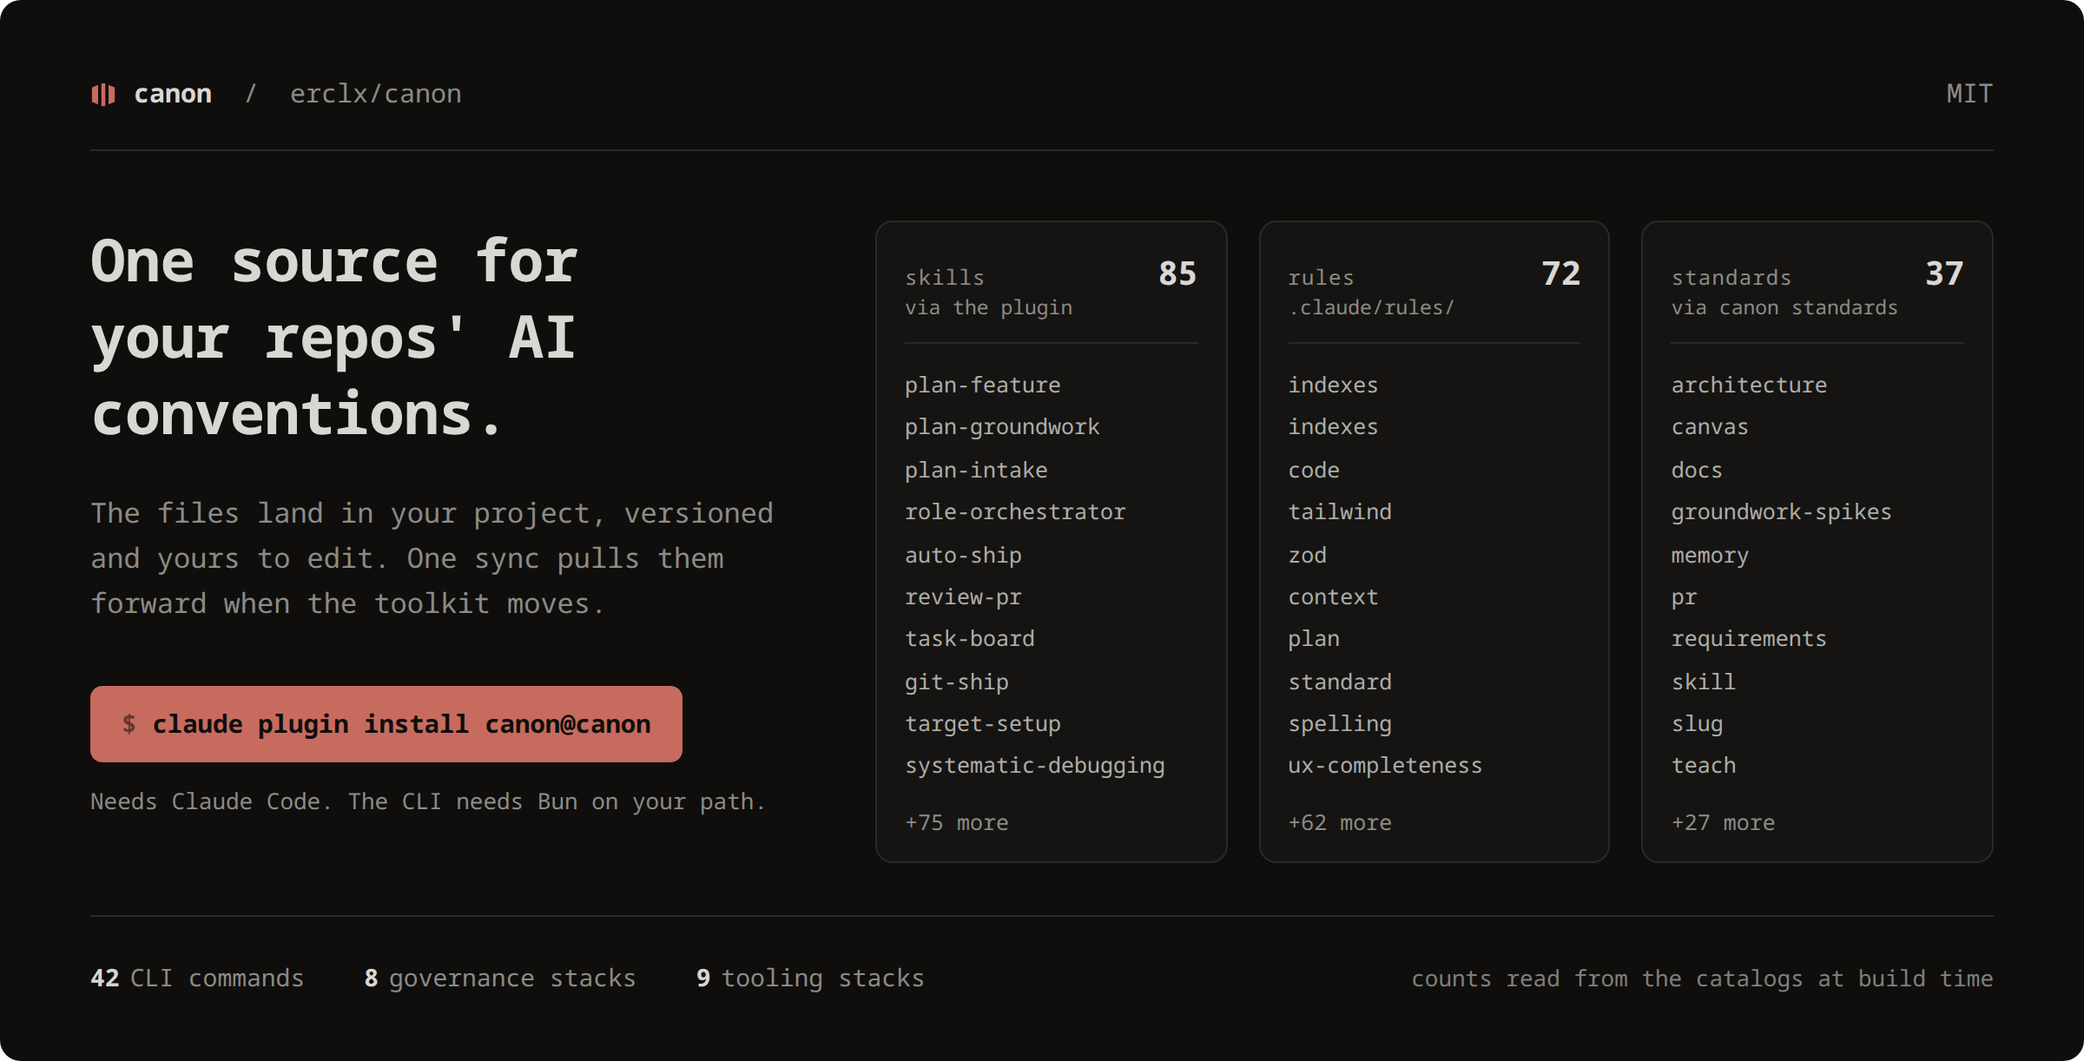
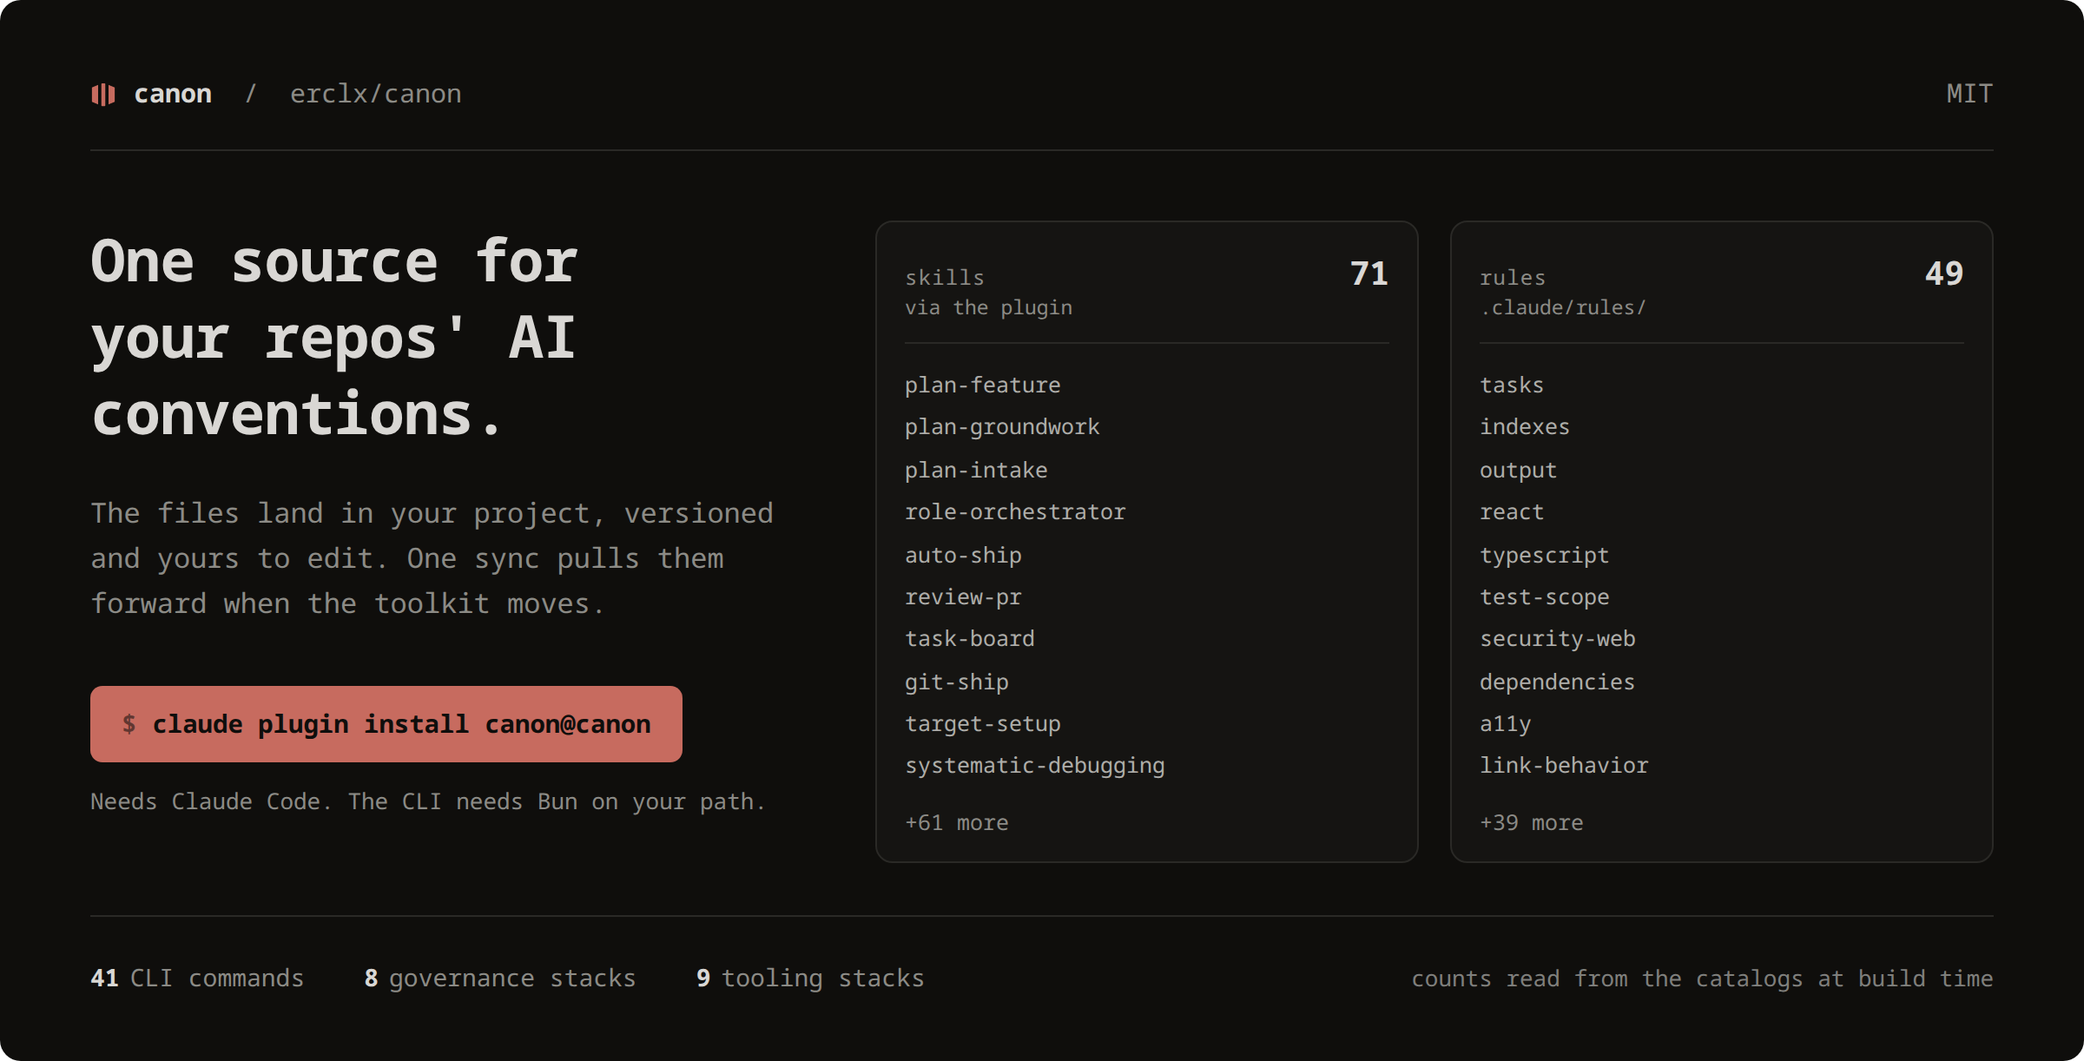
feat(web): drop the standards catalog from the landing page (#2336)
## Summary

Drop the standards catalog from the landing page and the hero frame to stop both reading `src/standards/` before the verb removal deletes it.

## Key changes

- Cut `fold.never` in `web/src/content/copy.ts` to the skills row and retitle it "and one it never copies".
- Drop `standards` from `turns.usedCommands`, `close.lead`, and the footer links in `web/src/content/copy.ts`.
- Remove the standards row from `web/src/components/sections/fold.astro`.
- Drop `standards` from `SessionReads` in `web/src/lib/session.ts` and `CatalogCounts` in `web/src/lib/counts.ts`.
- Remove `StandardRow`, `standardRows`, and the `STANDARD_*` values from `src/capture/frame-values.ts` and its test.
- Drop the `listStandardEntries` read from `scripts/core/regen-hero.ts`.
- Remove the standards column from `assets/captures/hero.html.tmpl` and set the grid to two columns.
- Regenerate `assets/captures/hero.html`, `assets/frames/hero.png`, and `assets/frames/hero.stamp`.
- Fold the change into `canon/context/scripts/core.md` and `canon/context/web/overview.md`.
- Set `.never ul` in `web/src/components/sections/fold.astro` to one column, so the lone row spans the width.

## Technical context

- The verb removal deletes `src/standards/`, so nothing on the page or the frame may read it first.

diff --git a/src/capture/frame-values.ts b/src/capture/frame-values.ts
@@ -31,15 +31,9 @@ const GLOB_WIDTH = 44
 /** A refusal the script prints as `regen-hero: <message>` and exits 1 on. */
 export class FrameError extends Error {}
 
-export interface StandardRow {
-  readonly name: string
-  readonly appliesTo?: readonly string[]
-}
-
 export interface FrameCatalogs {
   readonly skills: readonly string[]
   readonly gov: GovCatalog
-  readonly standards: readonly StandardRow[]
   readonly toolingStacks: readonly StackSummary[]
   readonly commandCount: number
   readonly tokenCss: string
@@ -63,7 +57,7 @@ const escape = (value: string): string =>
 /**
  * Even spacing across the sorted catalog rather than its first N, so a column
  * whose names share a prefix does not read as a narrower catalog than the one
- * that ships. Rules and standards sample. Skills do not, because the even step
+ * that ships. Rules sample. Skills do not, because the even step
  * lands on the entries closest to commodity and on none of the workflow the
  * toolkit exists to carry.
  */
@@ -186,7 +180,7 @@ function faviconUri(markSvg: string, tokenCss: string): string {
  * rather than shipping a frame claiming the domain has nothing in it.
  */
 export function buildFrameValues(catalogs: FrameCatalogs): FrameValues {
-  const { gov, toolingStacks, standards, skills } = catalogs
+  const { gov, toolingStacks, skills } = catalogs
   const markSvg = catalogs.markSvg.trim()
   if (!markSvg) {
     throw new FrameError(
@@ -207,12 +201,10 @@ export function buildFrameValues(catalogs: FrameCatalogs): FrameValues {
   const stacked = new Set(gov.stacks.flatMap((stack) => stack.rules))
   const deliveredEntries = gov.rules.filter((entry) => stacked.has(entry.name))
   const deliveredRules = deliveredEntries.map((entry) => slug(entry.name))
-  const standardNames = standards.map((entry) => entry.name)
 
   for (const [label, list] of [
     ['skills', skills],
     ['rules', rules],
-    ['standards', standardNames],
     ['tooling stacks', toolingStacks],
     ['gov stacks', gov.stacks],
     ['stack-delivered rules', deliveredRules],
@@ -251,23 +243,6 @@ export function buildFrameValues(catalogs: FrameCatalogs): FrameValues {
     })
     .join('\n')
 
-  // A standard either governs an artifact by path or is opened by name when a
-  // session decides it needs it. Naming the second is the contrast, since
-  // nothing else tells a reader the corpus installs into no project.
-  const standardRows = sample(standards)
-    .map((entry) => {
-      const applies = entry.appliesTo ?? []
-      const governs =
-        applies.length > 0
-          ? clip(applies.join(' '), GLOB_WIDTH)
-          : 'read by name'
-      return frameRow(
-        `<span class="name">${escape(pad(entry.name, 18))}</span>` +
-          `<span class="muted">${escape(governs)}</span>`,
-      )
-    })
-    .join('\n')
-
   // A tooling stack is counted rather than listed, because what it lays down is
   // dev dependencies, run scripts, and ignore groups rather than named entries.
   // The inheritance is the part worth showing, since it is why a stack carrying
@@ -286,7 +261,6 @@ export function buildFrameValues(catalogs: FrameCatalogs): FrameValues {
   for (const [label, rows] of [
     ['governance stack rows', govStackRows],
     ['governance rule rows', govRuleRows],
-    ['standard rows', standardRows],
     ['tooling stack rows', toolingStackRows],
   ] as const) {
     if (rows === '') {
@@ -300,11 +274,9 @@ export function buildFrameValues(catalogs: FrameCatalogs): FrameValues {
     TOKENS: tokenCss,
     GOV_STACK_ROWS: govStackRows,
     GOV_RULE_ROWS: govRuleRows,
-    STANDARD_ROWS: standardRows,
     TOOLING_STACK_ROWS: toolingStackRows,
     SKILL_COUNT: String(skills.length),
     RULE_COUNT: String(rules.length),
-    STANDARD_COUNT: String(standardNames.length),
     GOV_STACK_COUNT: String(gov.stacks.length),
     TOOLING_STACK_COUNT: String(toolingStacks.length),
     COMMAND_COUNT: String(catalogs.commandCount),
@@ -312,10 +284,8 @@ export function buildFrameValues(catalogs: FrameCatalogs): FrameValues {
     FAVICON: faviconUri(markSvg, tokenCss),
     SKILL_ENTRIES: markup(featured(skills, FEATURED_SKILLS)),
     RULE_ENTRIES: markup(sample(deliveredRules)),
-    STANDARD_ENTRIES: markup(sample(standardNames)),
     SKILL_MORE: remaining(skills),
     RULE_MORE: remaining(rules),
-    STANDARD_MORE: remaining(standardNames),
   }
 
   const light = lightTokens(tokenCss)

diff --git a/assets/captures/hero.html b/assets/captures/hero.html
@@ -2,8 +2,8 @@
 <!--
   Generated by scripts/core/regen-hero.ts from assets/captures/hero.html.tmpl. Do not
   edit this file. Every count below is read from the CLI catalogs at build time
-  and the Hero stage fails when the frame falls behind the tree. The rule and
-  standard names are sampled from those catalogs too. The skill names are the
+  and the Hero stage fails when the frame falls behind the tree. The rule
+  names are sampled from those catalogs too. The skill names are the
   one hand-kept list, and the generator fails on a name that has left the
   catalog rather than dropping it from the column.
 
@@ -175,7 +175,7 @@
       .cols {
         flex: 1;
         display: grid;
-        grid-template-columns: repeat(3, 1fr);
+        grid-template-columns: repeat(2, 1fr);
         align-items: start;
         gap: 18px;
       }
@@ -283,7 +283,7 @@
         <div class="cols">
           <div class="col">
             <div class="col-head">
-              <span class="col-name">skills</span><span class="col-count">85</span>
+              <span class="col-name">skills</span><span class="col-count">71</span>
             </div>
             <div class="col-dest">via the plugin</div>
             <div class="entry">plan-feature</div>
@@ -296,49 +296,31 @@
             <div class="entry">git-ship</div>
             <div class="entry">target-setup</div>
             <div class="entry">systematic-debugging</div>
-            <div class="more">+75 more</div>
+            <div class="more">+61 more</div>
           </div>
 
           <div class="col">
             <div class="col-head">
-              <span class="col-name">rules</span><span class="col-count">72</span>
+              <span class="col-name">rules</span><span class="col-count">49</span>
             </div>
             <div class="col-dest">.claude/rules/</div>
+            <div class="entry">tasks</div>
             <div class="entry">indexes</div>
-            <div class="entry">indexes</div>
-            <div class="entry">code</div>
-            <div class="entry">tailwind</div>
-            <div class="entry">zod</div>
-            <div class="entry">context</div>
-            <div class="entry">plan</div>
-            <div class="entry">standard</div>
-            <div class="entry">spelling</div>
-            <div class="entry">ux-completeness</div>
-            <div class="more">+62 more</div>
-          </div>
-
-          <div class="col">
-            <div class="col-head">
-              <span class="col-name">standards</span><span class="col-count">37</span>
-            </div>
-            <div class="col-dest">via canon standards</div>
-            <div class="entry">architecture</div>
-            <div class="entry">canvas</div>
-            <div class="entry">docs</div>
-            <div class="entry">groundwork-spikes</div>
-            <div class="entry">memory</div>
-            <div class="entry">pr</div>
-            <div class="entry">requirements</div>
-            <div class="entry">skill</div>
-            <div class="entry">slug</div>
-            <div class="entry">teach</div>
-            <div class="more">+27 more</div>
+            <div class="entry">output</div>
+            <div class="entry">react</div>
+            <div class="entry">typescript</div>
+            <div class="entry">test-scope</div>
+            <div class="entry">security-web</div>
+            <div class="entry">dependencies</div>
+            <div class="entry">a11y</div>
+            <div class="entry">link-behavior</div>
+            <div class="more">+39 more</div>
           </div>
         </div>
       </div>
 
       <div class="stats">
-        <span><b>42</b>CLI commands</span>
+        <span><b>41</b>CLI commands</span>
         <span><b>8</b>governance stacks</span>
         <span><b>9</b>tooling stacks</span>
         <span class="note">counts read from the catalogs at build time</span>

diff --git a/web/src/content/copy.ts b/web/src/content/copy.ts
@@ -96,17 +96,13 @@ export const fold = {
       detail: '.claude/rules/canon/, from the stack you name',
     },
   },
-  // README.md: canon-allow-readme-paraphrase: "some are never copied at all" "read by name with"
+  // README.md: canon-allow-readme-paraphrase: "some are never copied at all"
   never: {
-    title: 'and two it never copies',
+    title: 'and one it never copies',
     skills: {
       name: 'agent skills',
       detail:
         'loaded live from the plugin, so a fix reaches every project at once',
-    },
-    standards: {
-      name: 'standards',
-      detail: 'read by name with canon standards, never a file to drift',
     },
   },
 }
@@ -443,7 +439,6 @@ export const field = {
   }),
   usedCommands: [
     'gov',
-    'standards',
     'tooling',
     'claude',
     'tasks',
@@ -468,7 +463,7 @@ export const field = {
 export const close = {
   head: 'None of that was configured for that session',
   // README.md: canon-allow-readme-paraphrase: "copied into your project and become yours to edit" "some are never copied at all"
-  lead: 'The rules and the tooling are copied into your project and become yours to edit. The skills and the standards are never copied at all, so a fix reaches every project at once and neither can drift.',
+  lead: 'The rules and the tooling are copied into your project and become yours to edit. The skills are never copied at all, so a fix reaches every project at once and cannot drift.',
   primary: { label: 'Install canon', href: `${REPO}#install` },
   secondary: { label: 'Read the source', href: REPO },
 }
@@ -482,7 +477,6 @@ export const footer = {
       links: [
         { label: 'Docs', href: `${REPO}/tree/main/docs` },
         { label: 'Agent commands', href: `${REPO}/tree/main/docs/agents` },
-        { label: 'Standards', href: `${REPO}/tree/main/standards` },
         { label: 'Wiki', href: `${REPO}/tree/main/wiki` },
       ],
     },

diff --git a/src/capture/frame-values.test.ts b/src/capture/frame-values.test.ts
@@ -34,7 +34,6 @@ const makeCatalogs = (
     ],
     unreferenced: [],
   },
-  standards: [{ name: 'plan', appliesTo: ['.canon/plans/*.md'] }],
   toolingStacks: [
     { name: 'ts', extends: null, devDeps: 1, scripts: 2, gitignoreGroups: 0 },
   ],
@@ -84,8 +83,8 @@ describe('clip', () => {
 
 describe('buildFrameValues', () => {
   it('should refuse an empty catalog', () => {
-    expect(() => buildFrameValues(makeCatalogs({ standards: [] }))).toThrow(
-      'the standards catalog is empty',
+    expect(() => buildFrameValues(makeCatalogs({ skills: [] }))).toThrow(
+      'the skills catalog is empty',
     )
   })
 
@@ -93,15 +92,6 @@ describe('buildFrameValues', () => {
     expect(() => buildFrameValues(makeCatalogs({ commandCount: 0 }))).toThrow(
       FrameError,
     )
-  })
-
-  it('should fall back to read by name when a standard has no scope', () => {
-    const { values } = buildFrameValues(
-      makeCatalogs({ standards: [{ name: 'plan' }] }),
-    )
-
-    expect(values.STANDARD_ROWS).toContain('read by name')
-    expect(values.STANDARD_ROWS).not.toContain('undefined')
   })
 
   it('should point the light frame at the light roles', () => {

diff --git a/web/src/lib/session.ts b/web/src/lib/session.ts
@@ -3,7 +3,6 @@ import { basename, join } from 'node:path'
 
 import { merge } from '../content/copy'
 import { readCanonJson, readCanonText, repoRoot } from './canon-cli'
-import { readCatalogCounts } from './counts'
 import {
   commandNamesFromHelp,
   firstSentence,
@@ -53,7 +52,6 @@ interface Skill {
 export interface SessionReads {
   readonly skills: readonly Skill[]
   readonly skillGroups: readonly SkillGroup[]
-  readonly standards: number
   readonly commands: readonly string[]
   readonly toolingFiles: number
   readonly seedFiles: number
@@ -104,7 +102,6 @@ export function readSession(): SessionReads {
   if (cached) return cached
   const root = repoRoot()
 
-  const counts = readCatalogCounts()
   const gov = readCanonJson<GovList>(['gov', 'list'])
   const { skills, families } = readCanonJson<{
     skills: Skill[]
@@ -125,7 +122,6 @@ export function readSession(): SessionReads {
       skills,
       families,
     ),
-    standards: counts.standards,
     commands: commandNamesFromHelp(readCanonText(['--help'])),
     toolingFiles: census.files,
     seedFiles: seeds.length,

diff --git a/scripts/core/regen-hero.ts b/scripts/core/regen-hero.ts
@@ -50,7 +50,6 @@ import { listSkills } from '../../src/claude/skills-list'
 import { countCommands } from '../../src/counts/catalogs'
 import { buildDesignCss } from '../../src/design/css'
 import { buildGovCatalog } from '../../src/gov/list'
-import { listStandardEntries } from '../../src/standards/list'
 import { buildStackSummaries } from '../../src/tooling/list'
 
 const root = new URL('../..', import.meta.url).pathname
@@ -87,11 +86,6 @@ function run(): void {
   const { values, frames } = buildFrameValues({
     skills: listSkills(root).map((entry) => entry.name),
     gov: buildGovCatalog(root),
-    // The toolkit root only: a project-local standard would put a row in the
-    // hero the toolkit does not ship.
-    standards: listStandardEntries(root).filter((entry) =>
-      entry.source.startsWith('standards/'),
-    ),
     toolingStacks: buildStackSummaries(root),
     commandCount: countCommands(root) ?? 0,
     tokenCss,

diff --git a/web/src/lib/canon-cli.ts b/web/src/lib/canon-cli.ts
@@ -25,9 +25,8 @@ export function readCanonText(args: readonly string[]): string {
   const result = spawnSync('bun', [join(root, 'src', 'cli.ts'), ...args], {
     encoding: 'utf8',
     cwd: root,
-    // The standards catalog carries every standard's full body, which runs
-    // past the default buffer and would otherwise truncate into a parse
-    // error.
+    // Catalog output can run past the default buffer and would otherwise
+    // truncate into a parse error.
     maxBuffer: 64 * 1024 * 1024,
     env: { ...process.env, NO_COLOR: '1' },
   })

diff --git a/web/src/lib/counts.ts b/web/src/lib/counts.ts
@@ -3,7 +3,6 @@ import { readCanonJson } from './canon-cli'
 interface CatalogCounts {
   skills: number
   rules: number
-  standards: number
   commands: number
   audits: number
 }

diff --git a/canon/context/scripts/core.md b/canon/context/scripts/core.md
@@ -16,7 +16,6 @@ What sequences those guards is not here. `bun run check` resolves to `canon gate
   - The name says hero while the loop covers every template in the folder, since every citation across `docs/`, `canon/context/`, and `src/` spells that name. A template naming a placeholder nothing fills fails the run rather than shipping the literal braces.
   - Each catalog is read in-process through the module its verb calls, and the command count through `countCommands` in `src/counts/catalogs.ts`, so no child process runs and no catalog crosses an environment or file channel. The pure half, every row builder and refusal, sits in `src/capture/frame-values.ts` with a test beside it, since `tsc` and vitest reach `src/` only.
   - The verb layer is skipped, so the checkout-mismatch warning that `gov list`, `claude skills list`, and `tooling list` print does not reach the script. It guards a globally linked binary resolving to the main checkout, which a script run by path never does.
-  - The standards column reads `listStandardEntries` filtered to the toolkit's own `standards/` root, since the entry list spans every root a resolve reaches and a project-local standard would put a row in the hero the toolkit does not ship.
 - `check-color-source.sh`: walks `scripts/` and `sandbox/` and fails when any `.sh` other than `scripts/lib/ui.sh` spells an SGR escape, so one answer sits behind every bash writer
 
 The five boundary checks that used to sit here as scripts are measures in `src/gate/boundaries.ts`, described under the plugin boundary stage below.
@@ -25,7 +24,7 @@ The five boundary checks that used to sit here as scripts are measures in `src/g
 
 `src/capture/frame-values.ts` carries a `FEATURED_SKILLS` list of ten chosen names for the skills column rather than sampling it, because an even sample lands on the entries closest to commodity and on none of the workflow the toolkit exists to carry. The run fails when a chosen name is absent from the catalog or when the list is not exactly `LISTED` long, so renaming or retiring a shipped skill breaks the Hero stage until the list is updated. The length assert is not decoration: `SKILL_MORE` counts down from `LISTED` rather than from the number of names rendered, so a list of any other length prints a remainder wrong by the difference.
 
-The rules column still samples, but only over rules a stack names. A rule no stack reaches is opt-in behind `--add`, and featuring one advertises an entry an ordinary `canon gov install` never delivers. The standards column samples the whole catalog, because three of the top four cited standards already appear and a second hand-kept list buys one swap for the same staleness. Every count and every `+N more` reads the whole catalog either way, so curation governs which names appear and nothing else.
+The rules column still samples, but only over rules a stack names. A rule no stack reaches is opt-in behind `--add`, and featuring one advertises an entry an ordinary `canon gov install` never delivers. Every count and every `+N more` reads the whole catalog either way, so curation governs which names appear and nothing else.
 
 The command count in the stats row reads `grep -c '^import { register as ' src/cli.ts`, since the commands have no `--json` catalog and `--help` is hand-authored ASCII that drifts from what is registered. A command added without that import shape leaves the frame's count low and nothing reports it.
 

diff --git a/canon/context/web/overview.md b/canon/context/web/overview.md
@@ -33,7 +33,7 @@ The page is the toolkit's one outward-facing route, and a reader arrives cold, s
 
 - Skip link: first in the tab order, jumping to the start of the session
 - Nav bar: sticky at the top, carrying the mark, the version with a dot lit when it matches the published one, one link per named beat, the theme toggle, and the install action
-- Fold: the headline, a one-line lede, two actions, and a before-and-after pair on one command, ending in a strip naming the two surfaces the command never copies
+- Fold: the headline, a one-line lede, two actions, and a before-and-after pair on one command, ending in a strip naming the one surface the command never copies
 - Proof band: one claim on its own line at full width, below the fold
 - Beats: the eleven sections in reading order. Their sequence and what each figure derives from are under Composition below
 - Field: every command name and skill name in two fields, the ones the session used lit. Skills sit under the skill map's groups, and each name reveals its when-to-use text on hover, focus, and tap
